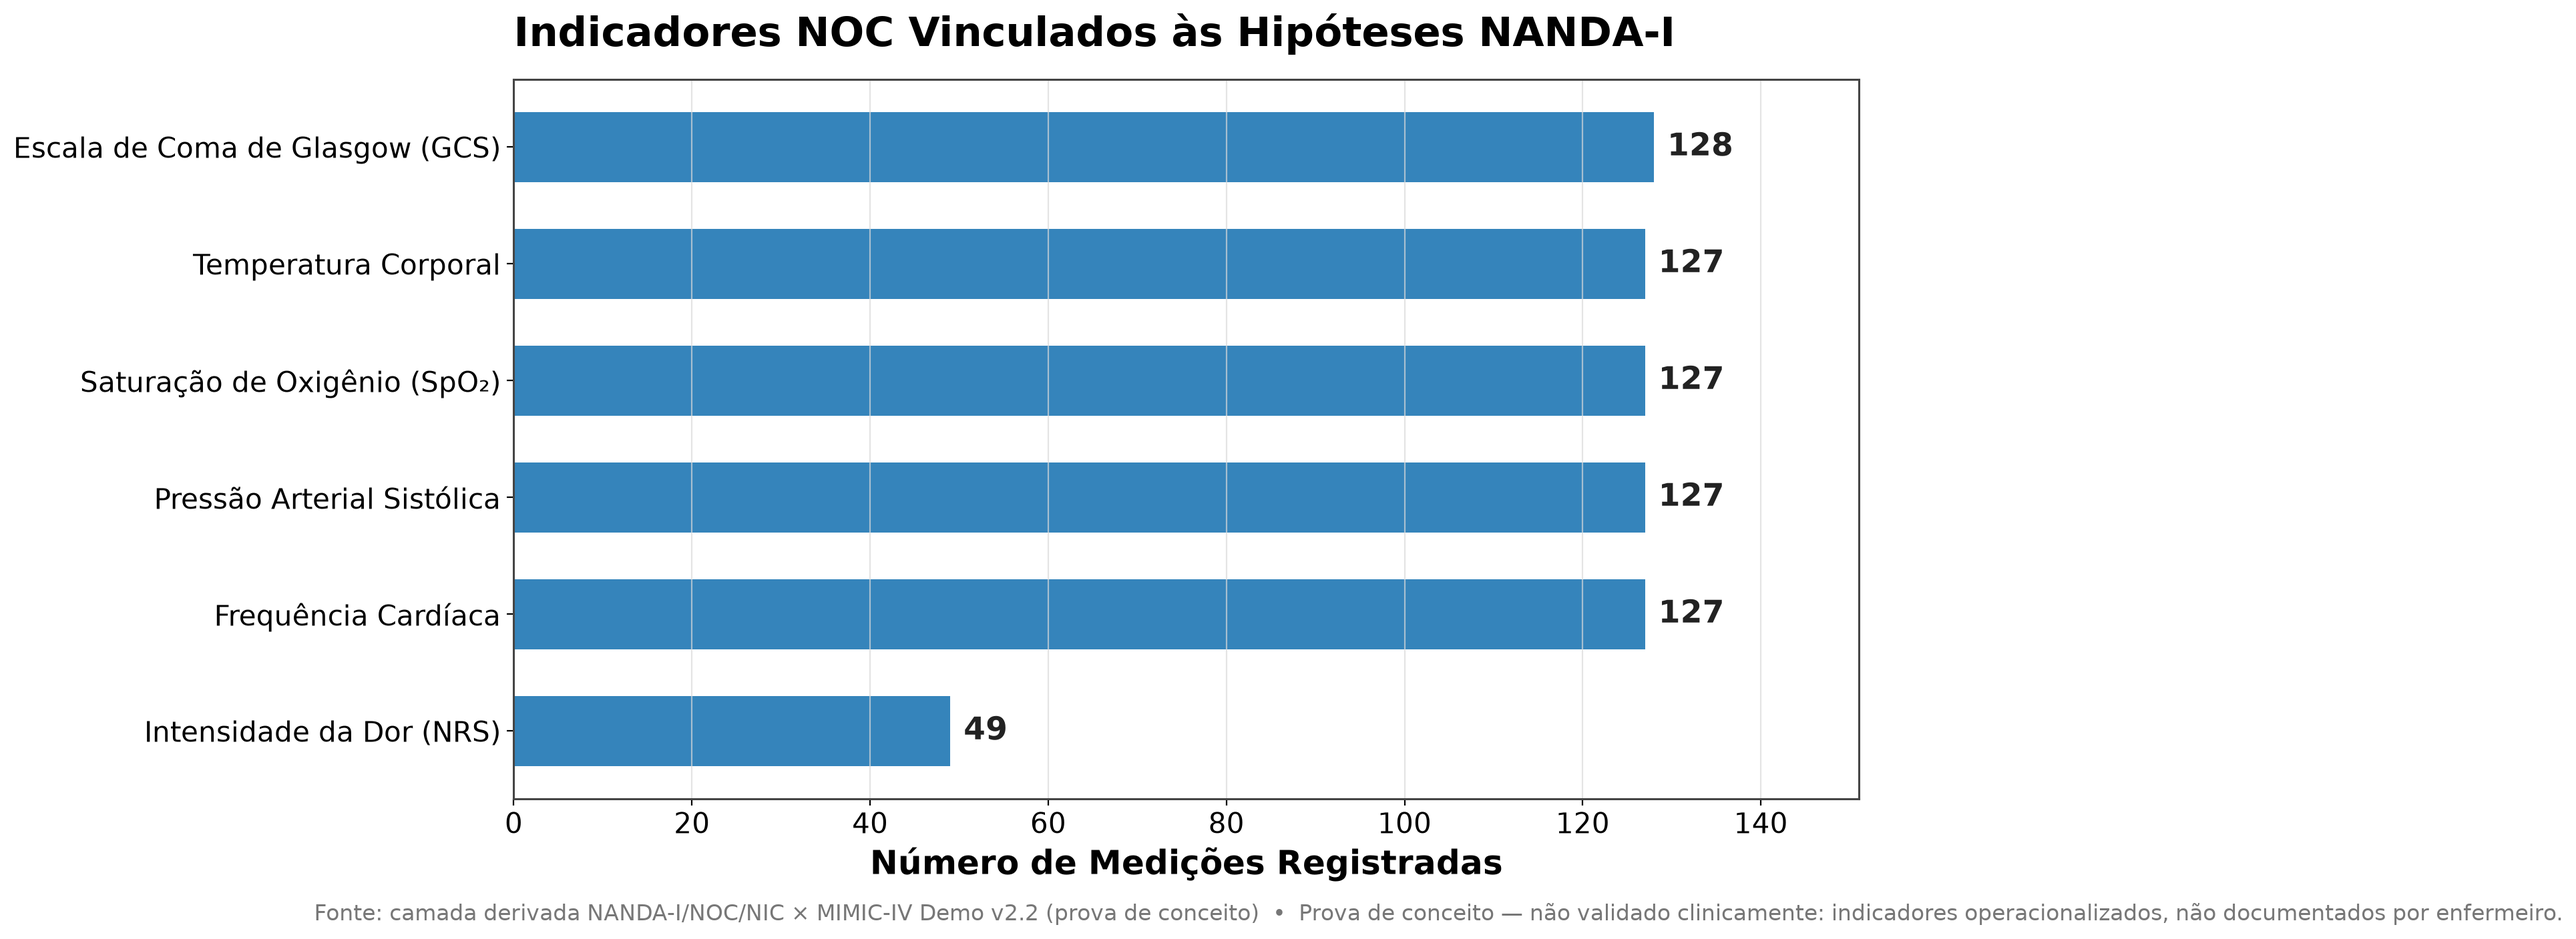
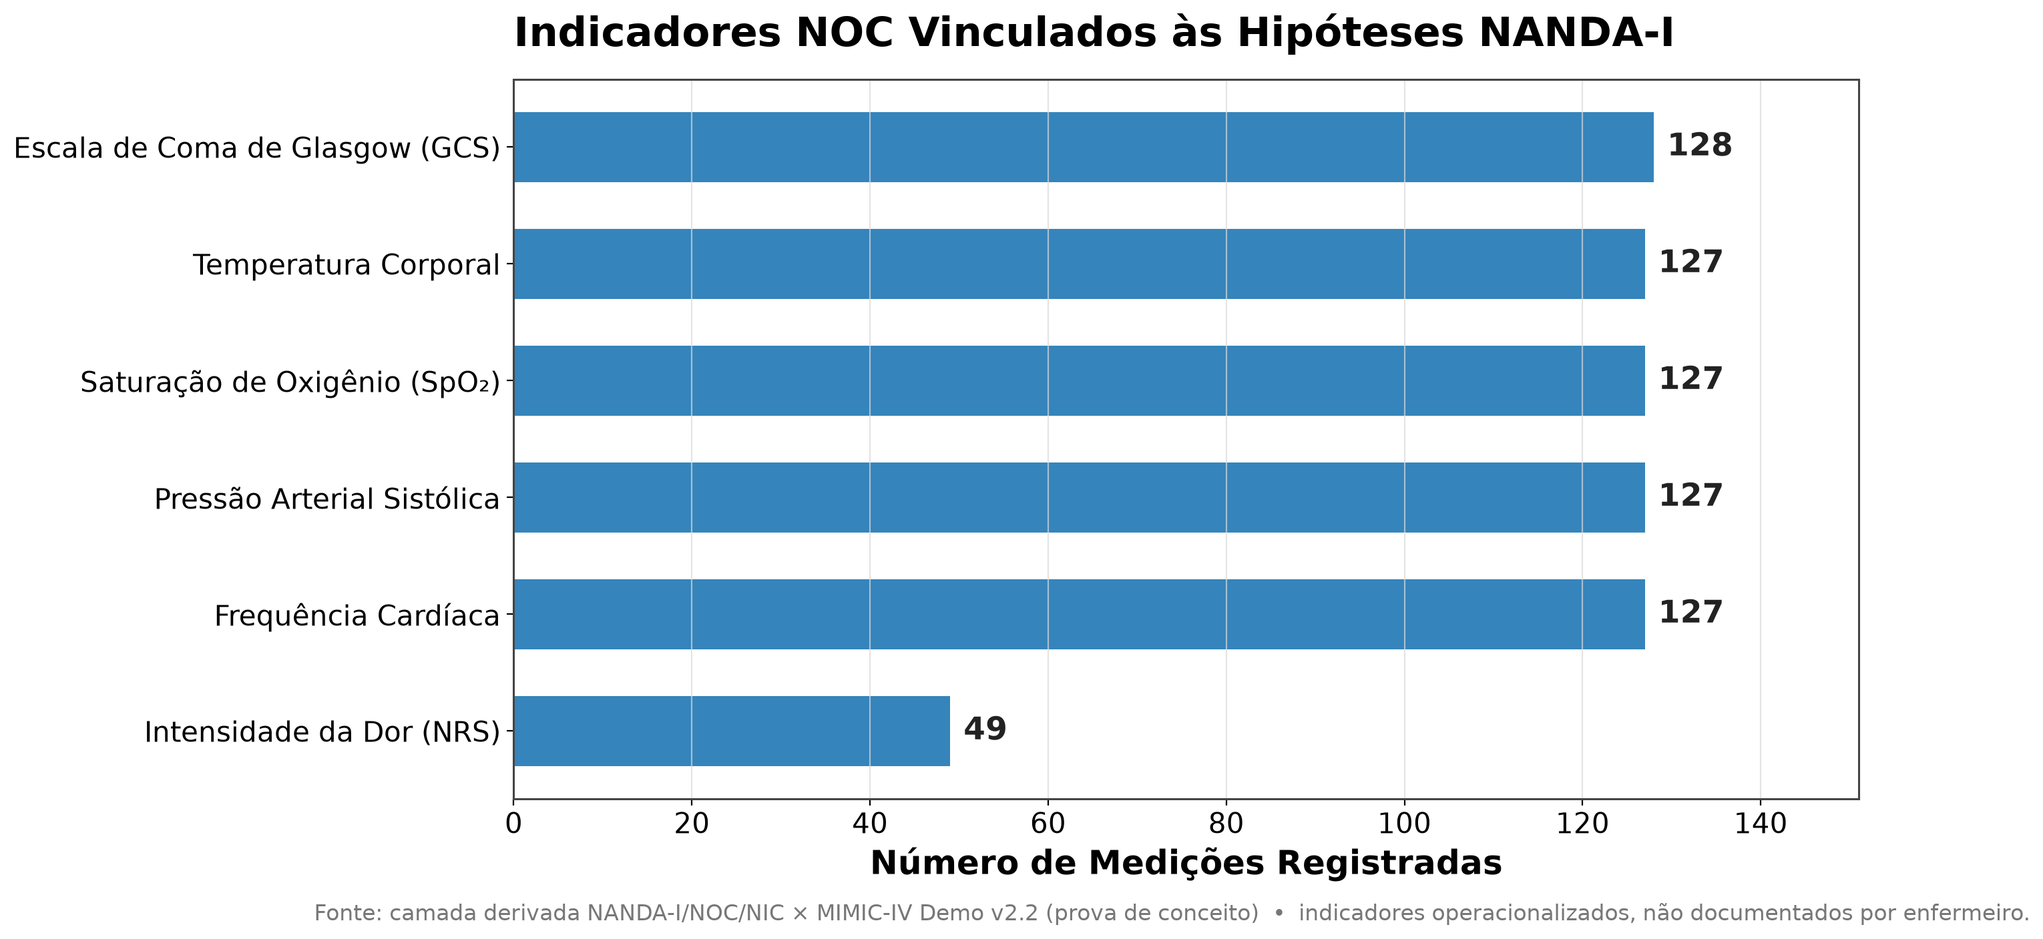
Remove legenda redundante das figuras Fig4_NOC e Fig5_Proxies_NIC

diff --git a/scripts/gerar_figuras_slides.py b/scripts/gerar_figuras_slides.py
@@ -400,7 +400,7 @@ ax.set_title("Indicadores NOC Vinculados às Hipóteses NANDA-I", pad=18, loc="l
 ax.set_xlim(0, c5.max() * 1.18)
 ax.grid(axis="y", visible=False)
 fig.text(0.01, -0.02,
-         f"{FONTE}  •  {AVISO}: indicadores operacionalizados, "
+         f"{FONTE}  •  indicadores operacionalizados, "
          "não documentados por enfermeiro.", fontsize=12, color="#777777")
 salvar(fig, "Fig4_NOC")
 
@@ -420,7 +420,7 @@ ax.set_xlim(0, c6.max() * 1.16)
 ax.xaxis.set_major_formatter(FuncFormatter(rotulo_milhar))
 ax.grid(axis="y", visible=False)
 fig.text(0.01, -0.02,
-         f"{FONTE}  •  {AVISO}: registro não distingue prescritor "
+         f"{FONTE}  •  registro não distingue prescritor "
          "nem confirma intervenção NIC autônoma.", fontsize=12, color="#777777")
 salvar(fig, "Fig5_Proxies_NIC")
 
